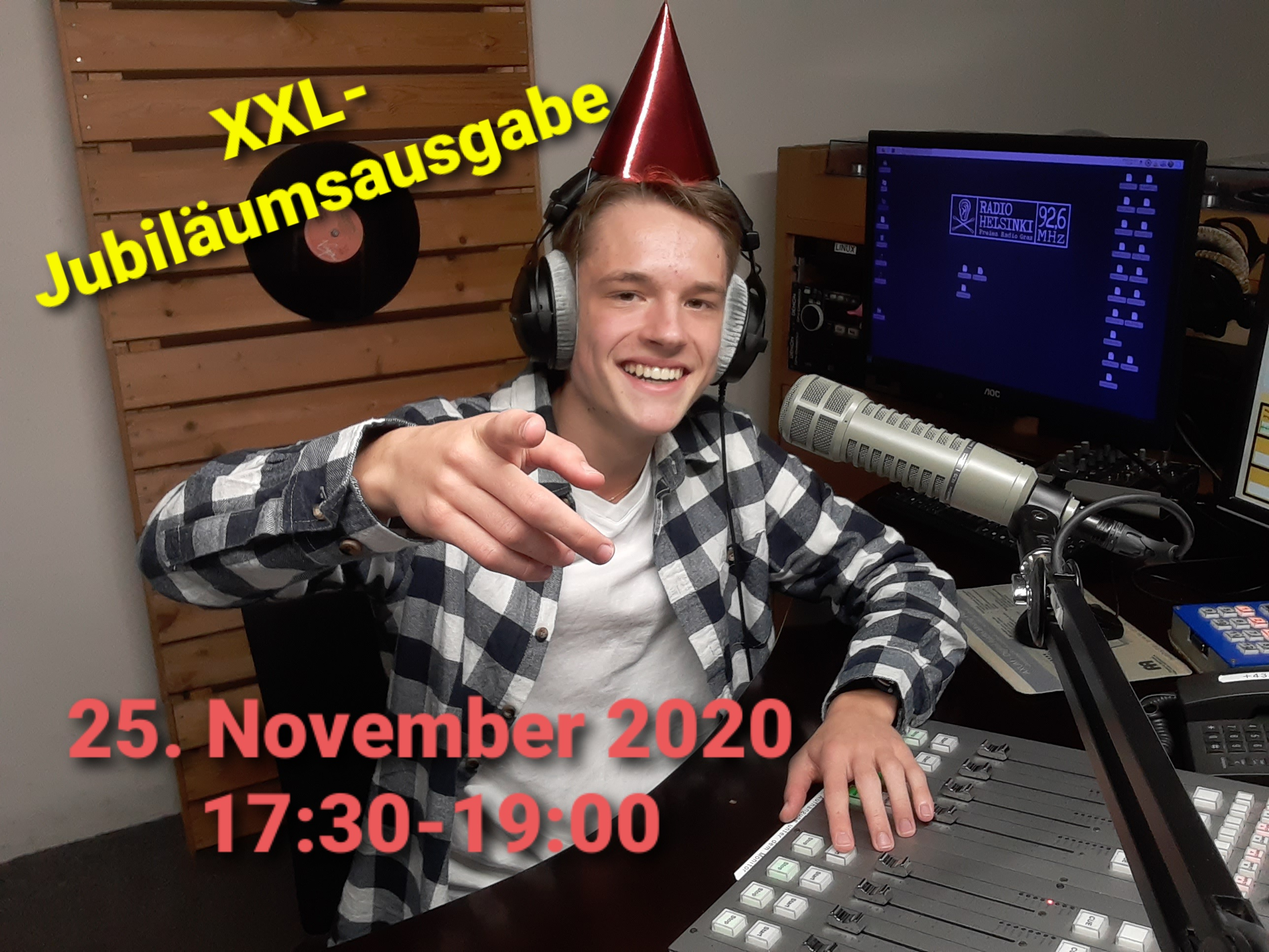
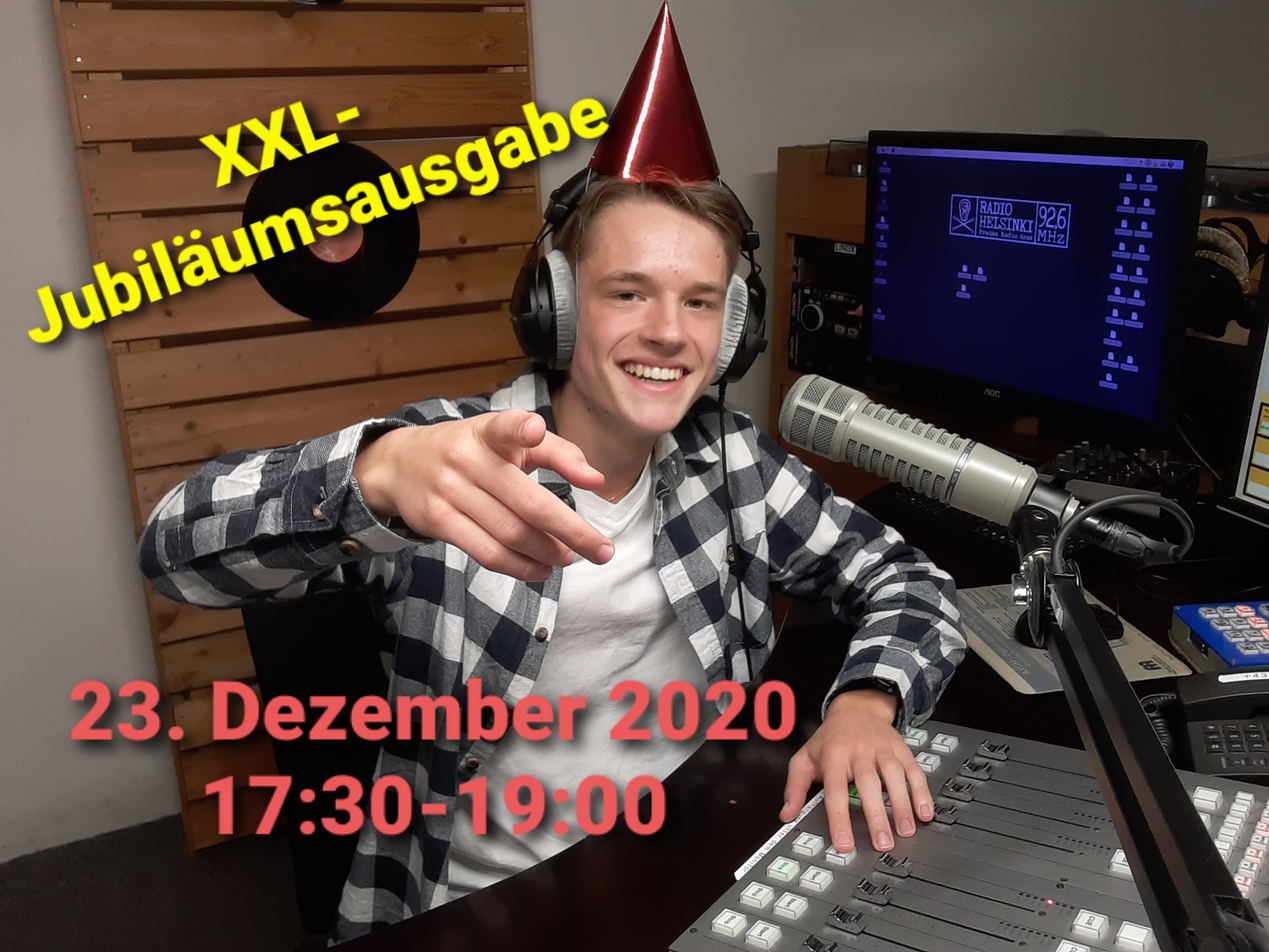
Verschiebung Jubiläumsausgabe/Inhalt 25.11.

Changed region(s): [[0.0311, 0.7143, 0.6522, 0.9317], [0.0, 0.0621, 0.4969, 0.3727]]

diff --git a/23122020/index.html b/23122020/index.html
@@ -5,6 +5,8 @@
   <meta charset="UTF-8">
   <meta name="viewport" content="width=device-width, initial-scale=1.0">
 
+  <link href="https://fonts.googleapis.com/css2?family=Permanent+Marker&display=swap" rel="stylesheet">
+
   <link rel="apple-touch-icon" sizes="180x180"
     href="https://happybirthdayshowhelsinki.github.io/favicon/apple-touch-icon.png">
   <link rel="icon" type="image/png" sizes="32x32"
@@ -19,7 +21,7 @@
   <meta name="msapplication-config" content="https://happybirthdayshowhelsinki.github.io/favicon/browserconfig.xml">
   <meta name="theme-color" content="#ffffff">
 
-  <title>Sendung am 23.12.2020 | Happy Birthday Show auf Radio Helsinki mit Christian Steinberger</title>
+  <title>XXL-Jubiläumsausgabe am 23.12.2020 | Happy Birthday Show auf Radio Helsinki mit Christian Steinberger</title>
   <link rel="stylesheet" href="/styles/bootstrap.min.css"
     integrity="sha384-Vkoo8x4CGsO3+Hhxv8T/Q5PaXtkKtu6ug5TOeNV6gBiFeWPGFN9MuhOf23Q9Ifjh" crossorigin="anonymous">
   <link rel="stylesheet" href="/styles/stylesheet.css">
@@ -29,12 +31,43 @@
   <div class="content">
     <h1>Happy Birthday Show</h1>
     <div w3-include-html="https://happybirthdayshowhelsinki.github.io/standard.html"></div>
-    <h2>Sendung am 23.12.2020</h2>
-    <p>Sie können diese Sendung am 23.12.2020 von 18 bis 19 Uhr in Graz auf der Frequenz 92,6 oder im <a
-        href="https://live.helsinki.at" target="_blank">Radio Helsinki Livestream</a> hören.</p>
-    <p><a href="https://helsinki.at/program/98263" target="_blank">Programmhinweis auf der Radio Helsinki Homepage</a>
-    </p>
-    <p>Der Inhalt dieser Sendung wurde noch nicht bekannt gegeben. Bitte noch um ein wenig Geduld... &#128521;</p>
+    <h2 class="jubilaeum-1 jubilaeum-2 alert alert-success">XXL-Jubiläumsausgabe am 23.12.2020 um 17:30 Uhr</h2>
+    <p class="corona-hinweis corona-hinweis-abstand">Aufgrund des 2. Corona-Lockdowns und den damit verbundenen Ausgangsbeschränkungen kann die
+      XXL-Jubiläumsausgabe
+      nicht wie geplant am 25.11. stattfinden und wird voraussichtlich auf 23.12. um 17:30 Uhr verschoben, allerdings
+      hält dieser Termin nur,
+      wenn der Lockdown wie geplant mit 6. Dezember zu Ende geht.</p>
+    <h3 class="jubilaeum-3">Die Happy Birthday Show wird ein Jahr alt!</h3>
+    <div class="row">
+      <div class="col-md-8">
+        <p>Und wenn eine Geburtstags-Sendung Geburtstag hat, dann wird das gefeiert. Deshalb gibt es am 23.
+          Dezember 2020 eine XXL-Jubiläumsausgabe. Wir beginnen bereits um 17:30 Uhr statt wie normalerweise um 18:00
+          Uhr
+          und haben somit 90 statt wie üblich 60 Minuten. Neben dem üblichen Programm, also den MusikerInnen die
+          Geburtstag
+          haben, wird es dieses Mal auch ein paar Hintergrundinformationen zur Happy Birthday Show geben. Genauere
+          Inhalte
+          werden noch bekannt gegeben... &#128521;</p>
+        <div class="jubilaeum-large">
+          <p><a href="https://helsinki.at/program/98263" target="_blank">Programmhinweis auf der Radio Helsinki
+              Homepage</a>
+          </p>
+          <p>Sie können die XXL-Jubiläumsausgabe am 23.12.2020 von 17:30 bis 19 Uhr in Graz auf der Frequenz 92,6 oder
+            im <a href="https://live.helsinki.at" target="_blank">Radio Helsinki Livestream</a> hören.</p>
+        </div>
+      </div>
+      <div class="col-md-4 jubilaeum-center">
+        <img class="jubilaeums-foto" src="https://happybirthdayshowhelsinki.github.io/galerie/jubilaeumsausgabe.jpg"
+          alt="Jubiläumsausgabe">
+      </div>
+    </div>
+    <div class="jubilaeum-small">
+      <p><a href="https://helsinki.at/program/98263" target="_blank">Programmhinweis auf der Radio Helsinki
+          Homepage</a>
+      </p>
+      <p>Sie können die XXL-Jubiläumsausgabe am 23.12.2020 von 17:30 bis 19 Uhr in Graz auf der Frequenz 92,6 oder im <a
+          href="https://live.helsinki.at" target="_blank">Radio Helsinki Livestream</a> hören.</p>
+    </div>
   </div>
 
   <script src="styles/jquery-3.4.1.slim.min.js"

diff --git a/25112020/index.html b/25112020/index.html
@@ -21,7 +21,7 @@
   <meta name="msapplication-config" content="https://happybirthdayshowhelsinki.github.io/favicon/browserconfig.xml">
   <meta name="theme-color" content="#ffffff">
 
-  <title>XXL-Jubiläumsausgabe am 25.11.2020 | Happy Birthday Show auf Radio Helsinki mit Christian Steinberger</title>
+  <title>Sendung am 25.11.2020 | Happy Birthday Show auf Radio Helsinki mit Christian Steinberger</title>
   <link rel="stylesheet" href="/styles/bootstrap.min.css"
     integrity="sha384-Vkoo8x4CGsO3+Hhxv8T/Q5PaXtkKtu6ug5TOeNV6gBiFeWPGFN9MuhOf23Q9Ifjh" crossorigin="anonymous">
   <link rel="stylesheet" href="/styles/stylesheet.css">
@@ -31,38 +31,22 @@
   <div class="content">
     <h1>Happy Birthday Show</h1>
     <div w3-include-html="https://happybirthdayshowhelsinki.github.io/standard.html"></div>
-    <h2 class="jubilaeum-1 jubilaeum-2 alert alert-success">XXL-Jubiläumsausgabe am 25.11.2020 um 17:30 Uhr</h2>
-    <h3 class="jubilaeum-3">Die Happy Birthday Show wird ein Jahr alt!</h3>
-    <div class="row">
-      <div class="col-md-8">
-        <p>Und wenn eine Geburtstags-Sendung Geburtstag hat, dann wird das gebührend gefeiert. Deshalb gibt es am 25.
-          November 2020 eine XXL-Jubiläumsausgabe. Wir beginnen bereits um 17:30 Uhr statt wie normalerweise um 18:00
-          Uhr
-          und haben somit 90 statt wie üblich 60 Minuten. Neben dem üblichen Programm, also den MusikerInnen die
-          Geburtstag
-          haben, wird es dieses Mal auch ein paar Hintergrundinformationen zur Happy Birthday Show geben. Genauere
-          Inhalte
-          werden noch bekannt gegeben... &#128521;</p>
-        <div class="jubilaeum-large">
-          <p><a href="https://helsinki.at/program/100487" target="_blank">Programmhinweis auf der Radio Helsinki
-              Homepage</a>
-          </p>
-          <p>Sie können die XXL-Jubiläumsausgabe am 25.11.2020 von 17:30 bis 19 Uhr in Graz auf der Frequenz 92,6 oder
-            im <a href="https://live.helsinki.at" target="_blank">Radio Helsinki Livestream</a> hören.</p>
-        </div>
-      </div>
-      <div class="col-md-4 jubilaeum-center">
-        <img class="jubilaeums-foto" src="https://happybirthdayshowhelsinki.github.io/galerie/jubilaeumsausgabe.jpg"
-          alt="Jubiläumsausgabe">
-      </div>
-    </div>
-    <div class="jubilaeum-small">
-      <p><a href="https://helsinki.at/program/100487" target="_blank">Programmhinweis auf der Radio Helsinki
-          Homepage</a>
-      </p>
-      <p>Sie können die XXL-Jubiläumsausgabe am 25.11.2020 von 17:30 bis 19 Uhr in Graz auf der Frequenz 92,6 oder im <a
-          href="https://live.helsinki.at" target="_blank">Radio Helsinki Livestream</a> hören.</p>
-    </div>
+    <p class="corona-hinweis">Aufgrund des 2. Corona-Lockdowns und den damit verbundenen
+      Ausgangsbeschränkungen kann die
+      XXL-Jubiläumsausgabe
+      nicht wie geplant am 25.11. stattfinden und wird voraussichtlich auf 23.12. um 17:30 Uhr verschoben, allerdings
+      hält dieser Termin nur,
+      wenn der Lockdown wie geplant mit 6. Dezember zu Ende geht.</p>
+    <h2>Sendung am 25.11.2020</h2>
+    <p>Damit es heute trotzdem ein Geburtstags-Feeling gibt, hören Sie von 18 bis 19 Uhr eine Wiederholung der
+      allerersten Happy Birthday Show vom 1.12.2019!</p>
+    <p>"Heute feiern wir mit Mat Kearney, Billy Paul, Lost Frequencies und Sido. Die erste Sendung von Christian
+      Steinberger."</p>
+    <p><a href="https://helsinki.at/program/100487" target="_blank">Programmhinweis auf der Radio Helsinki
+        Homepage</a>
+    </p>
+    <p>Sie können diese Sendung am 25.11.2020 von 18 bis 19 Uhr in Graz auf der Frequenz 92,6 oder im <a
+        href="https://live.helsinki.at" target="_blank">Radio Helsinki Livestream</a> hören.</p>
   </div>
 
   <script src="styles/jquery-3.4.1.slim.min.js"

diff --git a/index.html b/index.html
@@ -66,11 +66,18 @@
     </div>
 
     <div class="jubilaeum-1 alert alert-success">
-      <h2 class="jubilaeum-2">XXL-Jubiläumsausgabe: 25. November 2020 17:30 Uhr</h2>
+      <h2 class="jubilaeum-2">XXL-Jubiläumsausgabe: 23. Dezember 2020 17:30 Uhr</h2>
     </div>
+    <p class="corona-hinweis">Aufgrund des 2. Corona-Lockdowns und den damit verbundenen Ausgangsbeschränkungen kann die
+      XXL-Jubiläumsausgabe
+      nicht wie geplant am 25.11. stattfinden und wird voraussichtlich auf 23.12. um 17:30 Uhr verschoben, allerdings
+      hält dieser Termin nur,
+      wenn der Lockdown wie geplant mit 6. Dezember zu Ende geht.</p>
+    <p class="corona-hinweis corona-hinweis-abstand">Damit es am 25.11. trotzdem ein Geburtstags-Feeling gibt,
+      hören Sie von 18 bis 19 Uhr eine Wiederholung der allerersten Happy Birthday Show vom 1.12.2019!</p>
     <h3 class="jubilaeum-3">Die Happy Birthday Show wird ein Jahr alt!</h3>
-    <p>Und wenn eine Geburtstags-Sendung Geburtstag hat, dann wird das gebührend gefeiert. Deshalb gibt es am 25.
-      November 2020 eine XXL-Jubiläumsausgabe. Wir beginnen bereits um 17:30 Uhr statt wie normalerweise um 18:00 Uhr
+    <p>Und wenn eine Geburtstags-Sendung Geburtstag hat, dann wird das gebührend gefeiert. Deshalb gibt es am 23.
+      Dezember 2020 eine XXL-Jubiläumsausgabe. Wir beginnen bereits um 17:30 Uhr statt wie normalerweise um 18:00 Uhr
       und haben somit 90 statt wie üblich 60 Minuten. Neben dem üblichen Programm, also den MusikerInnen die Geburtstag
       haben, wird es dieses Mal auch ein paar Hintergrundinformationen zur Happy Birthday Show geben. Mehr zur
       XXL-Ausgabe

diff --git a/standard.html b/standard.html
@@ -19,8 +19,8 @@
             <div class="dropdown">
               <button onclick="myFunction()" class="dropbtn">Kommende Sendungen</button>
               <div id="myDropdown" class="dropdown-content">
-                <a href="https://happybirthdayshowhelsinki.github.io/25112020"><span class="badge badge-success">!</span> 25.11.2020 <img src="https://happybirthdayshowhelsinki.github.io/favicon/favicon-32x32.png" alt="!"></a>
-                <a href="https://happybirthdayshowhelsinki.github.io/23122020">23.12.2020</a>
+                <a href="https://happybirthdayshowhelsinki.github.io/25112020"><span class="badge badge-success">!</span> 25.11.2020</a>
+                <a href="https://happybirthdayshowhelsinki.github.io/23122020"><span class="badge badge-success">!</span> 23.12.2020 <img src="https://happybirthdayshowhelsinki.github.io/favicon/favicon-32x32.png" alt="!"></a>
                 <a href="https://happybirthdayshowhelsinki.github.io/20012021">20.01.2021</a>
                 <a href="https://happybirthdayshowhelsinki.github.io/17022021">17.02.2021</a>
               </div>

diff --git a/styles/stylesheet.css b/styles/stylesheet.css
@@ -217,3 +217,10 @@ p {
         display: block;
     }
 }
+.corona-hinweis {
+    color: red;
+    text-align: center;
+}
+.corona-hinweis-abstand {
+    padding-bottom: 25px;
+}
